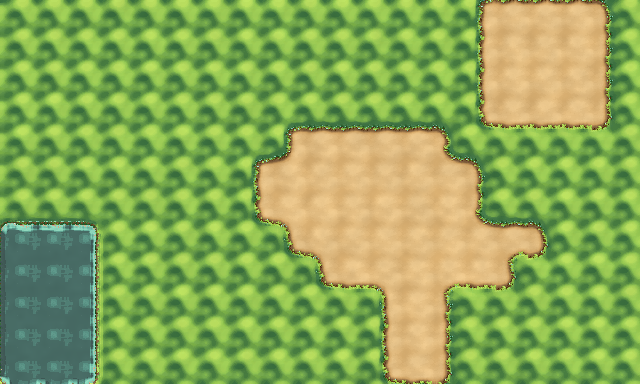
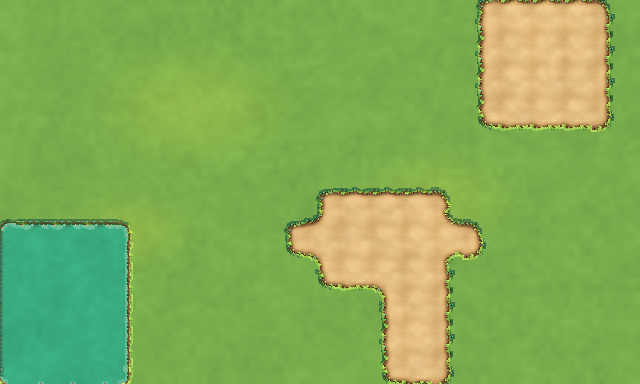
Pinewatch v3 composition: flat-wash ground, reduced dirt, small teal pond, edge-cropped heroes
Repainted map (v16): dirt ~19% (hub+spine+pocket), pond 4 cols exits
frame edge, grass dominant. Flatten pass in dress tool kills the
tileset's baked scallop motif -> flat wash + sun pools; water interior
-> ref teal. Broadleaf treeline + canopy mass backdrop; van/hut/tents
crop at frame edges like the reference.

diff --git a/tools/tb_ground_dress.py b/tools/tb_ground_dress.py
@@ -118,6 +118,23 @@ def main():
                      .filter(ImageFilter.MaxFilter(5)))
     interior = (fam == 0) & (non_g == 0)
     a[interior] = flat[interior]
+    # Phase 5.2b — the fill tiles bake a scalloped shingle motif that
+    # wall-papers across the field (visible once dirt shrank). The ref
+    # ground is a flat wash: flatten interiors to family median + 2%
+    # broad luminance noise; transition pixels at edges keep detail.
+    gbase = np.median(a[interior], axis=0) if interior.any() \
+        else np.median(a[fam == 0], axis=0)
+    gn = (smooth_noise(a.shape[:2], rng, (6, 24)) - 0.5) * 2 * 0.045
+    a[interior] = np.clip(gbase * (1.0 + gn[interior][:, None]), 0, 255)
+    # water: interior -> ref teal #309d80, shore-band -> pulled 50%
+    w_edge = np.array(Image.fromarray((fam != 2).astype(np.uint8))
+                      .filter(ImageFilter.MaxFilter(5)))
+    w_in = (fam == 2) & (w_edge == 0)
+    w_shore = (fam == 2) & (w_edge != 0)
+    wbase = np.array([58.0, 160.0, 132.0])
+    wn = (smooth_noise(a.shape[:2], rng, (6, 24)) - 0.5) * 2 * 0.05
+    a[w_in] = np.clip(wbase * (1.0 + wn[w_in][:, None]), 0, 255)
+    a[w_shore] = np.clip(a[w_shore] * 0.45 + wbase * 0.55, 0, 255)
 
     # ---- 1. tonal blotches — the visible "sun pool" patches in the ref
     # are larger and softer than generic noise: low octaves, grass gets
@@ -137,6 +154,20 @@ def main():
         wm = fam == 2
         g = a[:, :, 1]; g[wm] = np.clip(g[wm] * 1.07, 0, 255)
         b = a[:, :, 2]; b[wm] = np.clip(b[wm] * 0.96, 0, 255)
+        # 5.0 warm sun pools — the ref's grass is washed by big soft
+        # warm patches (top-left field brightest); 2-3 gaussian pools
+        # on open grass, warm-yellow lift, no hard edge
+        yy, xx = np.mgrid[0:H, 0:W]
+        for cx, cy, rad in ((0.30, 0.28, 0.20), (0.68, 0.52, 0.16),
+                            (0.20, 0.60, 0.13)):
+            d2 = ((xx - cx * W) ** 2 / (rad * W) ** 2 +
+                  (yy - cy * H) ** 2 / (rad * H) ** 2)
+            pool = np.clip(1.0 - d2, 0, 1) ** 2
+            gm = fam == 0
+            a[:, :, 0] = np.where(gm, np.clip(
+                a[:, :, 0] + pool * 22.0, 0, 255), a[:, :, 0])
+            a[:, :, 1] = np.where(gm, np.clip(
+                a[:, :, 1] + pool * 12.0, 0, 255), a[:, :, 1])
         Image.fromarray(a.astype(np.uint8)).save(dst)
         print(f"dressed(light) {src} -> {dst} ({W}x{H})")
         return
